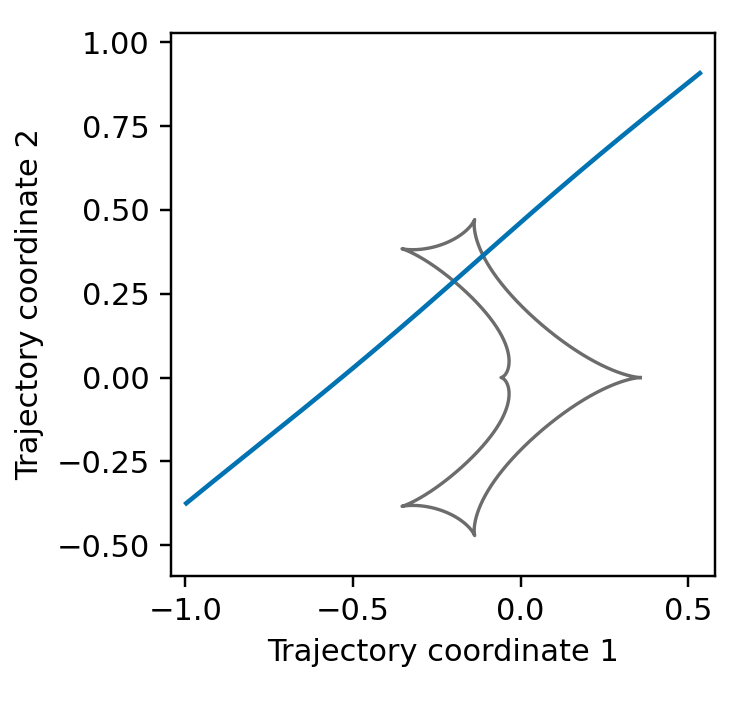
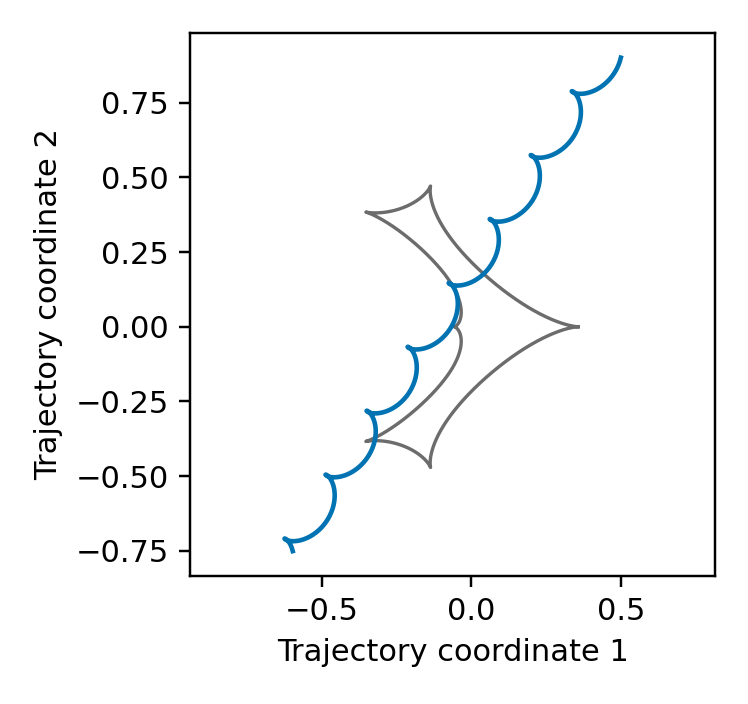
docs: restore standalone xallarap examples

diff --git a/example/docs-python/generate_figures.py b/example/docs-python/generate_figures.py
@@ -526,11 +526,11 @@ def binary_source_xallarap_offset_lightcurve():
 
 def xallarap_single_source():
     times = np.linspace(7470.0, 7530.0, 300)
-    common = dict(s=0.9, q=0.1, alpha=0.7, tE=30.0, t0=7500.0, u0=0.35, rho=0.004,
-                  xi_1=0.006, xi_2=-0.003)
+    common = dict(s=0.9, q=0.1, alpha=1.0, tE=30.0, t0=7500.0, u0=0.10, rho=0.004,
+                  xi_1=0.04, xi_2=-0.02)
     static = lcbinint.LightCurve()
 
-    elements_params = dict(common, period_xa=300.0, inc_xa=0.3)
+    elements_params = dict(common, period_xa=120.0, inc_xa=0.8)
     elements = lcbinint.LightCurve(xallarap="circular_elements", t_ref=7500.0)
     plt.figure(figsize=(4.2, 2.7))
     plt.plot(times, elements(times, elements_params), color="#0173B2")
@@ -547,7 +547,7 @@ def xallarap_single_source():
     plt.axis("equal")
     save("Xallarap_elements_geometry.png")
 
-    velocity_params = dict(common, w1=0.001, w2=0.12, w3=0.02)
+    velocity_params = dict(common, w1=0.01, w2=0.8, w3=0.2)
     velocity = lcbinint.LightCurve(xallarap="circular_velocity", t_ref=7500.0)
     plt.figure(figsize=(4.2, 2.7))
     plt.plot(times, velocity(times, velocity_params), color="#0173B2")

diff --git a/docs/python/Xallarap.md b/docs/python/Xallarap.md
@@ -25,10 +25,10 @@ import lcbinint
 
 times = np.linspace(7470.0, 7530.0, 300)
 parameters = {
-    "s": 0.9, "q": 0.1, "alpha": 0.7, "tE": 30.0,
-    "t0": 7500.0, "u0": 0.35, "rho": 0.004,
-    "xi_1": 0.006, "xi_2": -0.003,
-    "period_xa": 300.0, "inc_xa": 0.3,
+    "s": 0.9, "q": 0.1, "alpha": 1.0, "tE": 30.0,
+    "t0": 7500.0, "u0": 0.10, "rho": 0.004,
+    "xi_1": 0.04, "xi_2": -0.02,
+    "period_xa": 120.0, "inc_xa": 0.8,
 }
 curve = lcbinint.LightCurve(xallarap="circular_elements", t_ref=7500.0)
 magnification = curve(times, parameters)
@@ -67,10 +67,10 @@ plt.show()
 
 ```python
 parameters = {
-    "s": 0.9, "q": 0.1, "alpha": 0.7, "tE": 30.0,
-    "t0": 7500.0, "u0": 0.35, "rho": 0.004,
-    "xi_1": 0.006, "xi_2": -0.003,
-    "w1": 0.001, "w2": 0.12, "w3": 0.02,
+    "s": 0.9, "q": 0.1, "alpha": 1.0, "tE": 30.0,
+    "t0": 7500.0, "u0": 0.10, "rho": 0.004,
+    "xi_1": 0.04, "xi_2": -0.02,
+    "w1": 0.01, "w2": 0.8, "w3": 0.2,
 }
 curve = lcbinint.LightCurve(xallarap="circular_velocity", t_ref=7500.0)
 magnification = curve(times, parameters)
